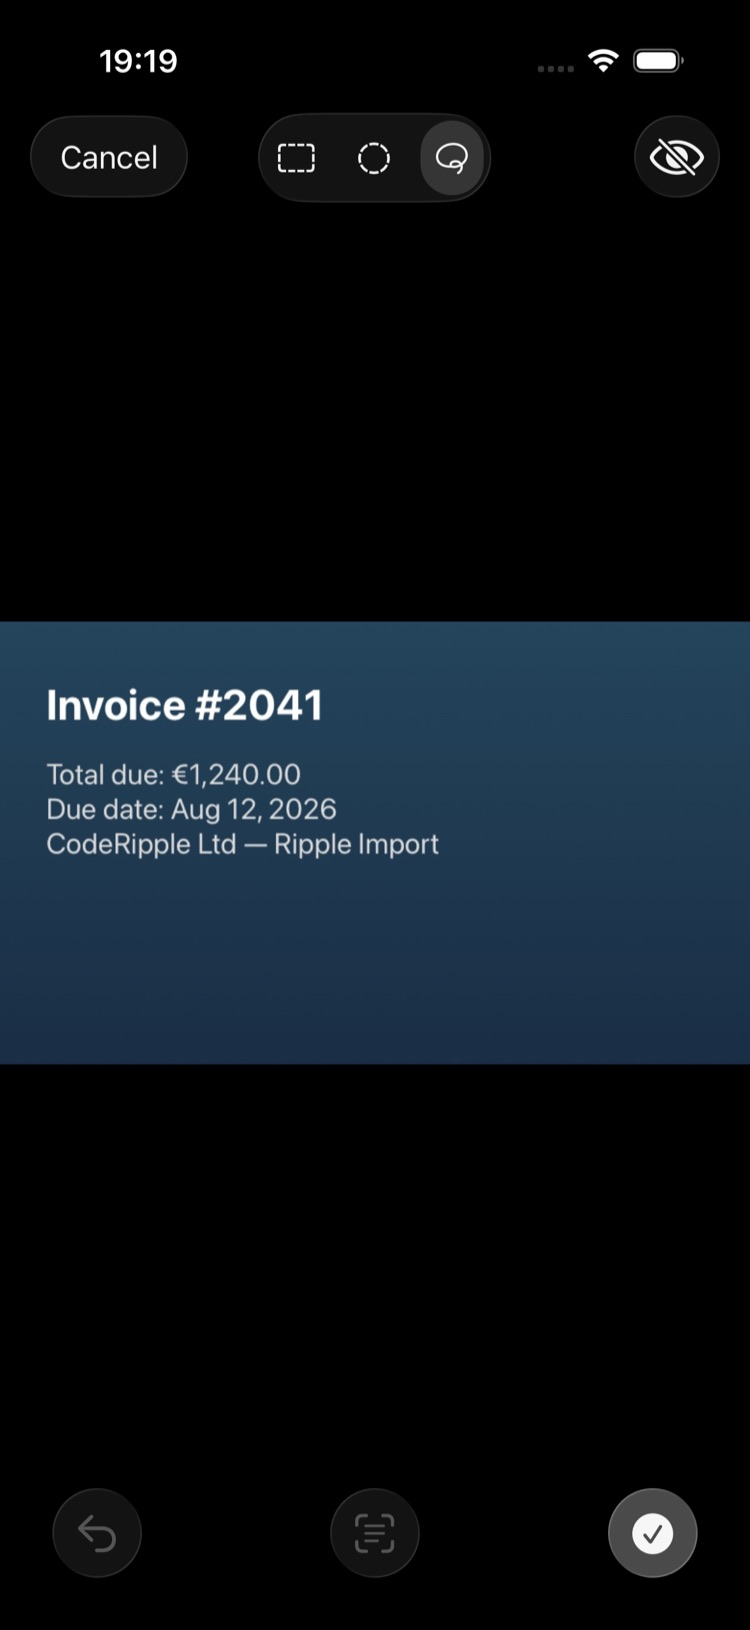
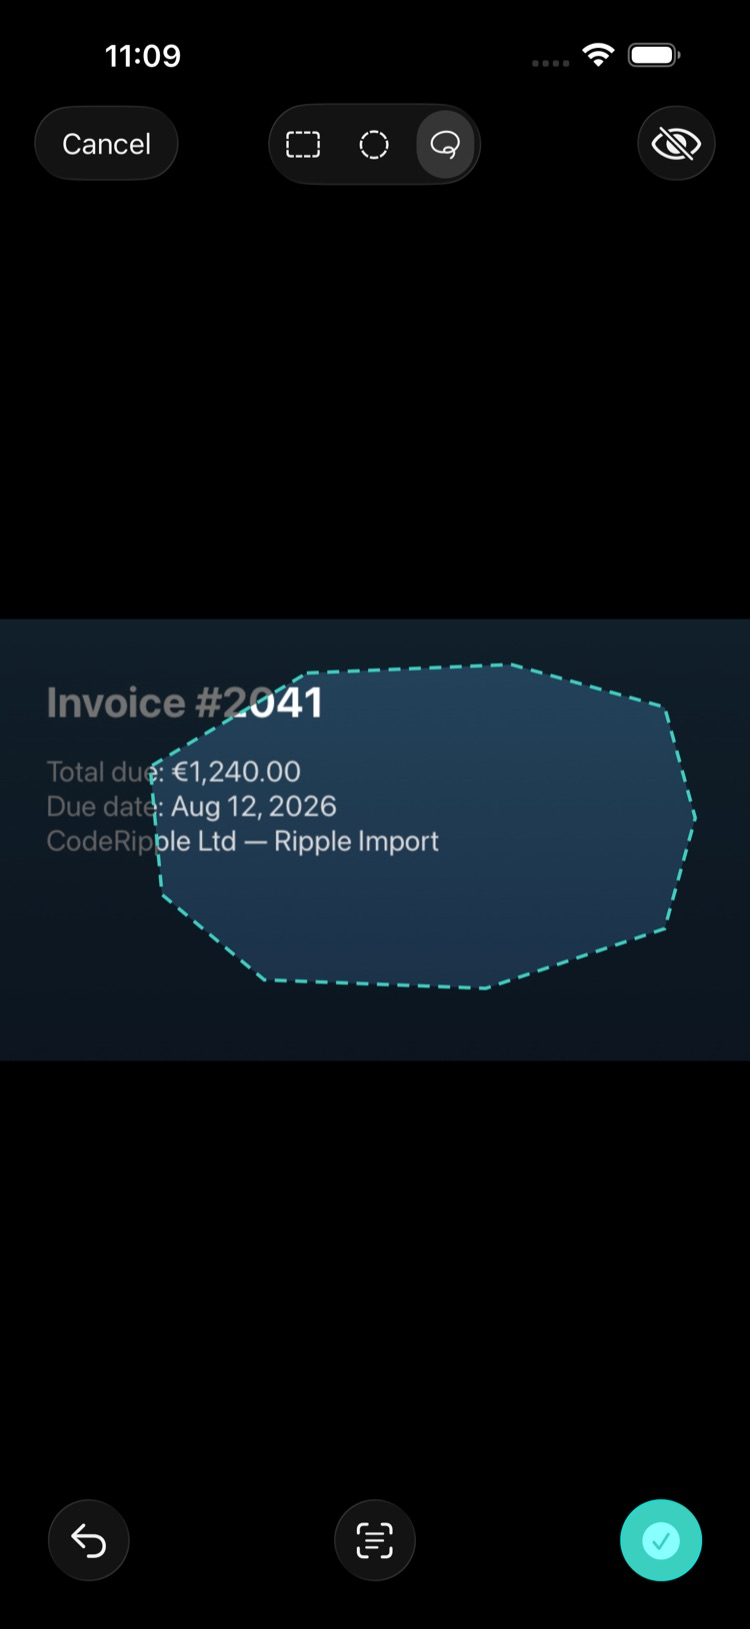
Refresh RippleClip screenshots and add the keyboard to the feature list

diff --git a/rippleclip/index.html b/rippleclip/index.html
@@ -110,6 +110,10 @@
           <img src="/assets/shot-rippleclip-2.jpg" alt="Shape Grab editor with freeform lasso selection over a screenshot" loading="lazy">
           <figcaption>Shape Grab — lasso, redact, lift text</figcaption>
         </figure>
+        <figure>
+          <img src="/assets/shot-rippleclip-4.jpg" alt="The Face ID-locked Vault" loading="lazy">
+          <figcaption>Sensitive clips, locked behind Face ID</figcaption>
+        </figure>
       </div>
     </section>
 
@@ -149,6 +153,11 @@
           <h4>Search that actually finds it</h4>
           <p>One search box covers text, links, code, and the words inside your screenshots. "That address from last week" is two taps away.</p>
         </div>
+        <div class="feature reveal">
+          <div class="fi"><svg viewBox="0 0 24 24" fill="none" stroke="currentColor" stroke-width="2" stroke-linecap="round" stroke-linejoin="round"><rect x="2" y="6" width="20" height="12" rx="2"/><path d="M6 10h.01M10 10h.01M14 10h.01M18 10h.01M8 14h8"/></svg></div>
+          <h4>A keyboard for your history</h4>
+          <p>Drop any saved clip straight into whatever you're typing, in any app. No copying back and forth.</p>
+        </div>
       </div>
     </section>
 
@@ -159,6 +168,7 @@
           <p>Clipboard managers have a snooping reputation. RippleClip's answer is structural: there is no server to leak to.</p>
           <ul>
             <li>Everything stays on your iPhone — no accounts, no analytics, no third-party SDKs</li>
+            <li>Link previews are off by default, and sign-in or reset links are never fetched</li>
             <li>Concealed copies from password managers are refused, not stored</li>
             <li>Auto-expiry rules and a Face ID vault for anything sensitive</li>
           </ul>
